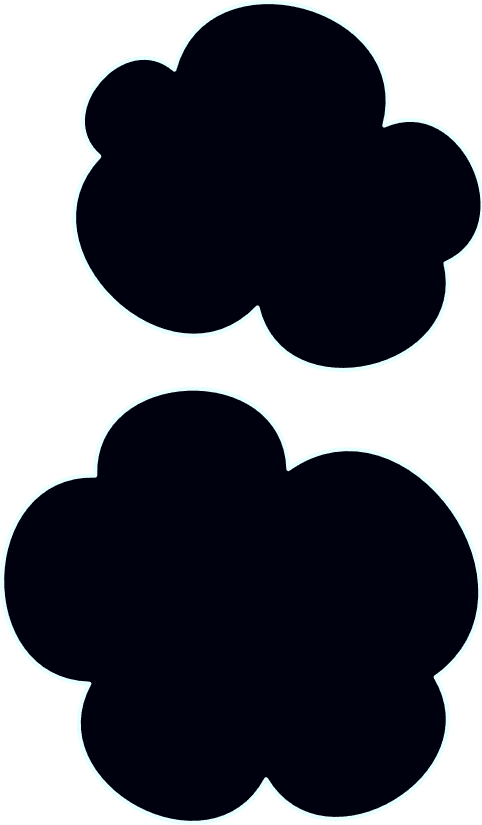
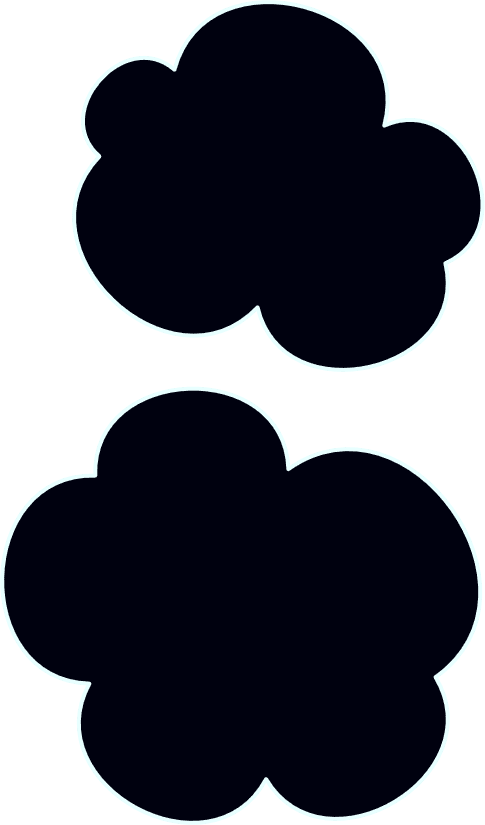
fix clipping and comment unused layers

diff --git a/styles.css b/styles.css
@@ -340,25 +340,25 @@ h3.inner-subheader {
 /* PAGE DECORATION BELOW */
 
 .fg1,
-.fg2,
+/* .fg2, */
 .fg3,
 .bg1,
 .bg2,
 .bg3,
 .bg4,
-.bg5,
+/* .bg5,
 .bg6,
 .bg7,
 .bg8,
-.bg9,
+.bg9, */
 .bg10,
-.bg11,
+/* .bg11,
 .bg12,
 .bg13,
 .bg14,
 .bg15,
 .bg16,
-.bg17,
+.bg17, */
 .bg18,
 .bg19,
 .bg20 {
@@ -373,13 +373,13 @@ h3.inner-subheader {
     z-index: 1;
 }
 
-.fg2 {
+/* .fg2 {
     transform: translateZ(0.5px) scale(0.5);
     position: absolute;
     width: 100%;
     min-height: 100vh;
     z-index: 2;
-}
+} */
 
 .fg3 {
     transform: translateZ(0.75px) scale(0.25);
@@ -421,7 +421,7 @@ h3.inner-subheader {
     z-index: -4;
 }
 
-.bg5 {
+/* .bg5 {
     transform: translateZ(-1.25px) scale(2.25);
     position: absolute;
     width: 100%;
@@ -459,7 +459,7 @@ h3.inner-subheader {
     width: 100%;
     min-height: 100vh;
     z-index: -9;
-}
+} */
 
 .bg10 {
     transform: translateZ(-2.5px) scale(3.5);
@@ -469,7 +469,7 @@ h3.inner-subheader {
     z-index: -10;
 }
 
-.bg11 {
+/* .bg11 {
     transform: translateZ(-2.75px) scale(3.75);
     position: absolute;
     width: 100%;
@@ -523,7 +523,7 @@ h3.inner-subheader {
     width: 100%;
     min-height: 100vh;
     z-index: -17;
-}
+} */
 
 .bg18 {
     transform: translateZ(-4.5px) scale(5.5);
@@ -549,7 +549,7 @@ h3.inner-subheader {
     z-index: -20;
 }
 
-.bg1-stars,
+/* .bg1-stars,
 .bg2-stars,
 .bg3-stars,
 .bg4-stars,
@@ -565,7 +565,7 @@ h3.inner-subheader {
 .bg14-stars,
 .bg15-stars,
 .bg16-stars,
-.bg17-stars,
+.bg17-stars, */
 .bg18-stars,
 .bg19-stars,
 .bg20-stars {
@@ -602,7 +602,7 @@ h3.inner-subheader {
 }
 
 .fg1-clouds-left {
-    --sizex: 482px;
+    --sizex: 485px;
     --sizey: 825px;
     position: absolute;
     top: 100vh;
